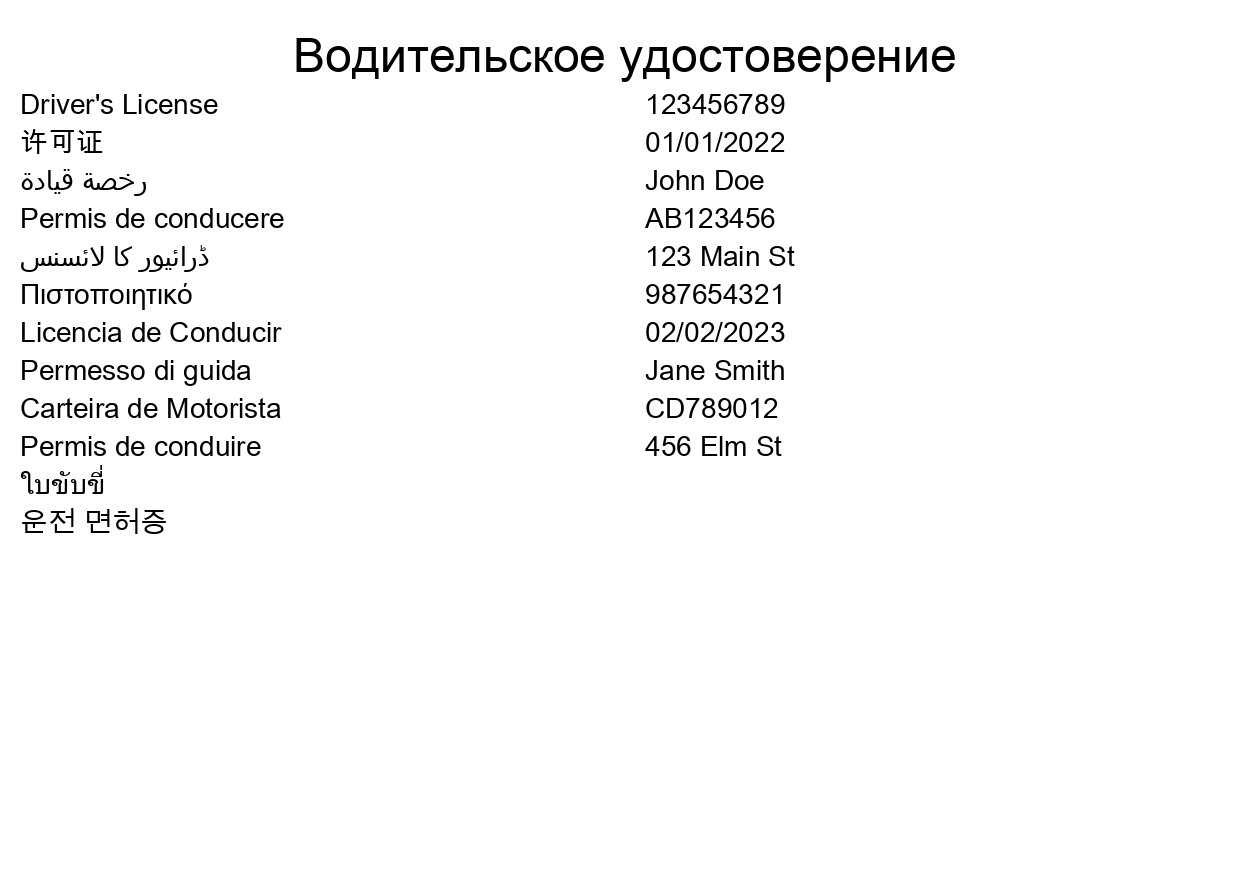
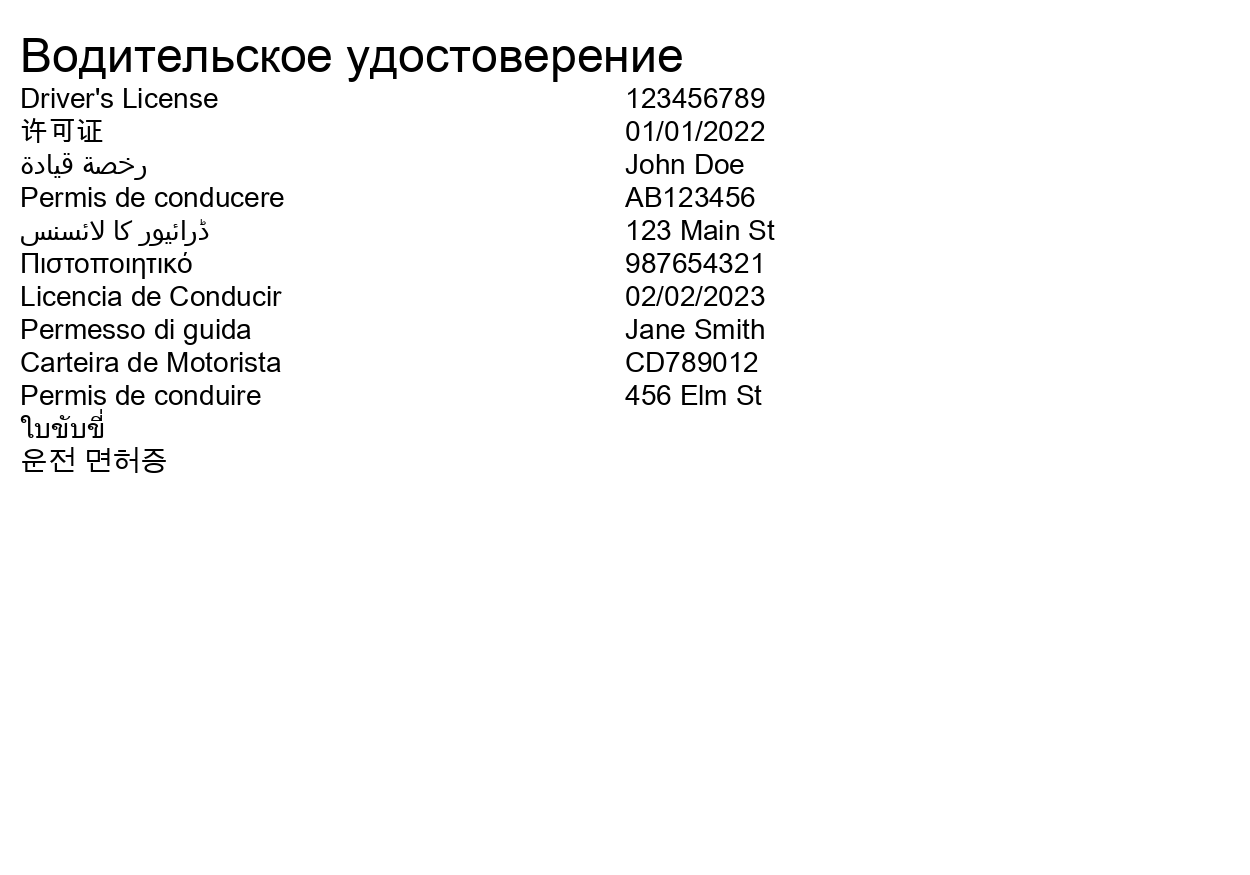
Refactor code to ensure consistent use of float32 data type

Changed region(s): [[0.0, 0.0309, 0.78, 0.6171]]

diff --git a/docGen.py b/docGen.py
@@ -4,12 +4,13 @@ import os
 import numpy as np
 import cv2
 import random
+import math
 from PIL import Image, ImageDraw, ImageFont
 from tqdm import tqdm
 import torch
 import torch.nn as nn
 import torch.optim as optim
-from torchvision import transforms
+from torchvision import transforms, models
 from torch.utils.data import Dataset, DataLoader
 
 # Create a directory to save the images
@@ -20,19 +21,19 @@ sample_texts = [
     (u"Driver's License", "English"),           # English
     (u"许可证", "Chinese"),                      # Chinese
     (u"رخصة قيادة", "Arabic"),                  # Arabic
-    (u"Permis de conducere", "Romanian"),        # Romanian
-    (u"ڈرائیور کا لائسنس", "Urdu"),          # Urdu
-    (u"Πιστοποιητικό", "Greek"),              # Greek
+    (u"Permis de conducere", "Romanian"),       # Romanian
+    (u"ڈرائیور کا لائسنس", "Urdu"),             # Urdu
+    (u"Πιστοποιητικό", "Greek"),                # Greek
     (u"Licencia de Conducir", "Spanish"),       # Spanish
     (u"Permesso di guida", "Italian"),          # Italian
-    (u"Carteira de Motorista", "Portuguese"),      # Portuguese
-    (u"Permis de conduire", "French"),         # French
-    (u"ใบขับขี่", "Thai"),                   # Thai
-    (u"운전 면허증", "Korean"),                 # Korean
-    (u"Водительское удостоверение", "Russian"),  # Russian
+    (u"Carteira de Motorista", "Portuguese"),   # Portuguese
+    (u"Permis de conduire", "French"),          # French
+    (u"ใบขับขี่", "Thai"),                      # Thai
+    (u"운전 면허증", "Korean"),                   # Korean
+    (u"Водительское удостоверение", "Russian"), # Russian
 ]
 
-# List of random data to add to the documents
+# Random data to add to the documents
 random_data = [
     u"123456789",                  # Random number
     u"01/01/2022",                 # Random date
@@ -40,104 +41,102 @@ random_data = [
     u"AB123456",                   # Random ID
     u"123 Main St",                # Random address
     u"987654321",                  # Another random number
-    u"02/02/2023",                # Another random date
+    u"02/02/2023",                 # Another random date
     u"Jane Smith",                 # Another random name
     u"CD789012",                   # Another random ID
     u"456 Elm St",                 # Another random address
 ]
 
+# Image sizes and font sizes
+IMAGE_SIZES = {
+    'license': (850, 540),
+    'passport': (1250, 875),
+    'a4': (2480, 3508),
+}
+
+FONT_SIZES = {
+    'license': (32, 20),
+    'passport': (48, 28),
+    'a4': (72, 36),
+}
+
+# Function to load font
+def load_font(font_size):
+    font_paths = [
+        "/usr/share/fonts/truetype/noto/NotoSans-Regular.ttf",  # Noto Sans
+        "/usr/share/fonts/truetype/dejavu/DejaVuSans.ttf",       # DejaVu Sans
+        "/Library/Fonts/Arial Unicode.ttf",                      # Arial Unicode (macOS)
+        "C:\\Windows\\Fonts\\arialuni.ttf",                      # Arial Unicode (Windows)
+    ]
+    for font_path in font_paths:
+        if os.path.exists(font_path):
+            try:
+                return ImageFont.truetype(font_path, font_size)
+            except Exception:
+                continue
+    # Fallback to default font
+    return ImageFont.load_default()
+
 # Function to create a synthetic document
 def create_synthetic_document(text, language, doc_type='license'):
-    # Set image size based on document type
-    if doc_type == 'license':
-        image_size = (850, 540)  # Standard US driver's license size (3.375" x 2.125" at 250 DPI)
-    elif doc_type == 'passport':
-        image_size = (1250, 875)  # Standard passport size (4.92" x 3.46" at 250 DPI)
-    else:  # A4 document
-        image_size = (2480, 3508)  # A4 size at 300 DPI
-
+    image_size = IMAGE_SIZES.get(doc_type, (850, 540))
+    font_size, smaller_size = FONT_SIZES.get(doc_type, (32, 20))
+    
     # Create a white background image using PIL
     img = Image.new('RGB', image_size, color='white')
     draw = ImageDraw.Draw(img)
     
-    # List of font paths to try for different operating systems and languages
-    font_paths = [
-        "/usr/share/fonts/truetype/noto/NotoSans-Regular.ttf",  # Linux
-        "/usr/share/fonts/truetype/noto/NotoSansCJK-Regular.ttc",  # Linux CJK
-        "/usr/share/fonts/truetype/noto/NotoSansArabic-Regular.ttf",  # Linux Arabic
-        "/usr/share/fonts/truetype/noto/NotoSansThai-Regular.ttf",  # Linux Thai
-        "/Library/Fonts/Arial Unicode.ttf",  # macOS
-        "/System/Library/Fonts/AppleSDGothicNeo.ttc",  # macOS
-        "C:\\Windows\\Fonts\\arial.ttf",  # Windows
-        "C:\\Windows\\Fonts\\arialuni.ttf",  # Windows Unicode
-    ]
-    
-    # Adjust font size based on document type
-    if doc_type == 'license':
-        font_size = 32
-        smaller_size = 20
-    elif doc_type == 'passport':
-        font_size = 48
-        smaller_size = 28
-    else:  # A4 document
-        font_size = 72
-        smaller_size = 36
-    
-    # Try to load fonts until one works
-    font = None
-    for font_path in font_paths:
-        try:
-            font = ImageFont.truetype(font_path, font_size)
-            break
-        except:
-            continue
-    
-    # If no font was loaded, try to download and use Noto Sans
-    if font is None:
-        try:
-            from urllib.request import urlretrieve
-            font_url = "https://github.com/googlefonts/noto-fonts/raw/main/hinted/ttf/NotoSans/NotoSans-Regular.ttf"
-            font_path = "NotoSans-Regular.ttf"
-            if not os.path.exists(font_path):
-                urlretrieve(font_url, font_path)
-            font = ImageFont.truetype(font_path, font_size)
-        except:
-            font = ImageFont.load_default()
-    
-    # Get text size for main text
-    text_bbox = draw.textbbox((0, 0), text, font=font)
-    text_width = text_bbox[2] - text_bbox[0]
-    text_height = text_bbox[3] - text_bbox[1]
-    
-    # Calculate center position for main text
-    x = (image_size[0] - text_width) // 2
-    y = 20  # Place main text at top
+    # Load font
+    font = load_font(font_size)
+    smaller_font = load_font(smaller_size)
     
     # Add main text
-    draw.text((x, y), text, fill='black', font=font)
-    
-    # Use smaller font for additional text
-    smaller_font = ImageFont.truetype(font_path, smaller_size)
+    x_margin = 20
+    y_margin = 20
+    draw.text((x_margin, y_margin), text, fill='black', font=font)
     
     # Add all sample texts in different languages
-    y_offset = y + text_height + 20
-    x_margin = 20
+    y_offset = y_margin + font_size + 10
     for sample_text, lang in sample_texts:
-        if lang != language:  # Skip the main language
+        if lang != language:
             draw.text((x_margin, y_offset), sample_text, fill='black', font=smaller_font)
-            y_offset += smaller_size + 10
+            y_offset += smaller_size + 5
     
-    # Add all random data
-    x_margin = image_size[0] // 2 + 20
-    y_offset = y + text_height + 20
+    # Add random data
+    x_offset = image_size[0] // 2
+    y_offset = y_margin + font_size + 10
     for data in random_data:
-        draw.text((x_margin, y_offset), data, fill='black', font=smaller_font)
-        y_offset += smaller_size + 10
+        draw.text((x_offset, y_offset), data, fill='black', font=smaller_font)
+        y_offset += smaller_size + 5
     
     # Convert PIL Image to OpenCV format
     img_cv = cv2.cvtColor(np.array(img), cv2.COLOR_RGB2BGR)
     return img_cv
 
+# Function to rotate and save images
+def rotate_and_save_image(img_array, angle, save_path):
+    rotated_img = Image.fromarray(cv2.cvtColor(img_array, cv2.COLOR_BGR2RGB))
+    rotated_img = rotated_img.rotate(angle, expand=True, fillcolor='white')
+    rotated_img.save(save_path)
+
+# Generate synthetic documents and augment with rotations
+doc_types = ['license', 'passport', 'a4']
+for doc_type in doc_types:
+    for i in range(100):
+        text, language = random.choice(sample_texts)
+        img = create_synthetic_document(text, language, doc_type)
+        base_filename = f'{language}_{doc_type}_{i}'
+        # Save original image
+        cv2.imwrite(f'synthetic_documents/{base_filename}_rot0.png', img)
+        
+        # Generate rotations directly from the original image
+        for j in range(10):
+            angle = random.uniform(-180, 180)
+            angle_str = f"{angle:.2f}"
+            save_path = f'synthetic_documents/{base_filename}_rot{angle_str}.png'
+            rotate_and_save_image(img, angle, save_path)
+
+# Custom Dataset
 class DocumentDataset(Dataset):
     def __init__(self, img_dir, transform=None):
         self.img_labels = []
@@ -157,42 +156,17 @@ class DocumentDataset(Dataset):
         img_path, angle = self.img_labels[idx]
         image = Image.open(img_path).convert('RGB')
         
-        # Normalize angle to be between 0 and 1
-        normalized_angle = (angle + 180) / 360
-
         if self.transform:
             image = self.transform(image)
-
-        # Convert to float32
-        return image.float(), torch.tensor(normalized_angle, dtype=torch.float32)
-
-# Generate synthetic documents
-doc_types = ['license', 'passport', 'a4']
-for doc_type in doc_types:
-    for i in range(10):
-        text, language = random.choice(sample_texts)
-        img = create_synthetic_document(text, language, doc_type)
-        # Save original image with its true rotation (0 degrees)
-        cv2.imwrite(f'synthetic_documents/{language}_{doc_type}_{i}_rot0.png', img)
-        # Save with compression
-        encode_param = [int(cv2.IMWRITE_PNG_COMPRESSION), 9]
-        cv2.imwrite(f'synthetic_documents/{language}_{doc_type}_{i}_rot0.png', img, encode_param)
-
-# Augment the dataset with random rotations
-for filename in tqdm(os.listdir('synthetic_documents')):
-    if filename.endswith('rot0.png'):
-        img_path = os.path.join('synthetic_documents', filename)
-        img = Image.open(img_path)
-        base_name = filename[:-8]  # Remove '_rot0.png'
-
-        # Generate 10 random rotations between -180 and 180 degrees
-        for i in range(10):
-            # Generate random rotation angle
-            angle = random.uniform(-180, 180)
-            # Round to 2 decimal places for filename
-            angle_str = f"{angle:.2f}"
-            rotated = img.rotate(angle, expand=True)
-            rotated.save(f'synthetic_documents/{base_name}_rot{angle_str}.png')
+        
+        # Convert angle to radians
+        angle_rad = math.radians(angle)
+        # Compute sine and cosine
+        sin_angle = math.sin(angle_rad)
+        cos_angle = math.cos(angle_rad)
+        
+        # Return image and sine/cosine labels
+        return image.float(), torch.tensor([sin_angle, cos_angle], dtype=torch.float32)
 
 # Define transformations
 transform = transforms.Compose([
@@ -202,59 +176,59 @@ transform = transforms.Compose([
 
 # Create dataset and dataloader
 dataset = DocumentDataset('synthetic_documents', transform=transform)
-dataloader = DataLoader(dataset, batch_size=16, shuffle=True)
+dataloader = DataLoader(dataset, batch_size=32, shuffle=True)
 
-# Define the CNN model
-class OrientationCNN(nn.Module):
-    def __init__(self):
-        super(OrientationCNN, self).__init__()
-        self.features = nn.Sequential(
-            nn.Conv2d(3, 16, kernel_size=5, stride=1, padding=2),
-            nn.ReLU(),
-            nn.MaxPool2d(kernel_size=2),
-            nn.Conv2d(16, 32, kernel_size=5, stride=1, padding=2),
-            nn.ReLU(),
-            nn.MaxPool2d(kernel_size=2),
-        )
-        self.classifier = nn.Sequential(
-            nn.Linear(32 * 56 * 56, 128),
-            nn.ReLU(),
-            nn.Linear(128, 1),  # Output layer for regression
-        )
+# Load pre-trained ResNet18 model
+model = models.resnet18(pretrained=True)
 
-    def forward(self, x):
-        x = self.features(x)
-        x = x.view(x.size(0), -1)
-        x = self.classifier(x)
-        return x
-
-model = OrientationCNN()
+# Modify the final layer to output sine and cosine
+model.fc = nn.Sequential(
+    nn.Linear(model.fc.in_features, 128),
+    nn.ReLU(),
+    nn.Linear(128, 2),  # Output sine and cosine
+)
 
 # Define loss function and optimizer
 criterion = nn.MSELoss()
 optimizer = optim.Adam(model.parameters(), lr=0.001)
 
-num_epochs = 5
+# Training loop
+num_epochs = 10
 
 for epoch in range(num_epochs):
     running_loss = 0.0
     total = 0
-
-    for images, angles in dataloader:
-        # Ensure both inputs and model are using float32
+    total_angle_error = 0.0
+    
+    for images, labels in dataloader:
         images = images.float()
-        angles = angles.float()
+        labels = labels.float()
         
         optimizer.zero_grad()
-
+        
         outputs = model(images)
-        loss = criterion(outputs.squeeze(), angles)
+        loss = criterion(outputs, labels)
         loss.backward()
         optimizer.step()
-
-        # Statistics
-        running_loss += loss.item()
-        total += angles.size(0)
-
-    avg_loss = running_loss/total
-    print(f'Epoch [{epoch+1}/{num_epochs}], Loss: {avg_loss:.4f}')
+        
+        running_loss += loss.item() * images.size(0)
+        total += images.size(0)
+        
+        # Compute predicted angles
+        pred_sin = outputs[:, 0].detach().numpy()
+        pred_cos = outputs[:, 1].detach().numpy()
+        pred_angles = np.arctan2(pred_sin, pred_cos) * (180 / np.pi)
+        
+        # Compute true angles
+        true_sin = labels[:, 0].numpy()
+        true_cos = labels[:, 1].numpy()
+        true_angles = np.arctan2(true_sin, true_cos) * (180 / np.pi)
+        
+        # Compute angular error
+        angle_errors = np.abs(pred_angles - true_angles)
+        angle_errors = np.minimum(angle_errors, 360 - angle_errors)  # Account for periodicity
+        total_angle_error += np.sum(angle_errors)
+    
+    avg_loss = running_loss / total
+    avg_angle_error = total_angle_error / total
+    print(f'Epoch [{epoch+1}/{num_epochs}], Loss: {avg_loss:.4f}, Avg Angle Error: {avg_angle_error:.2f} degrees')
